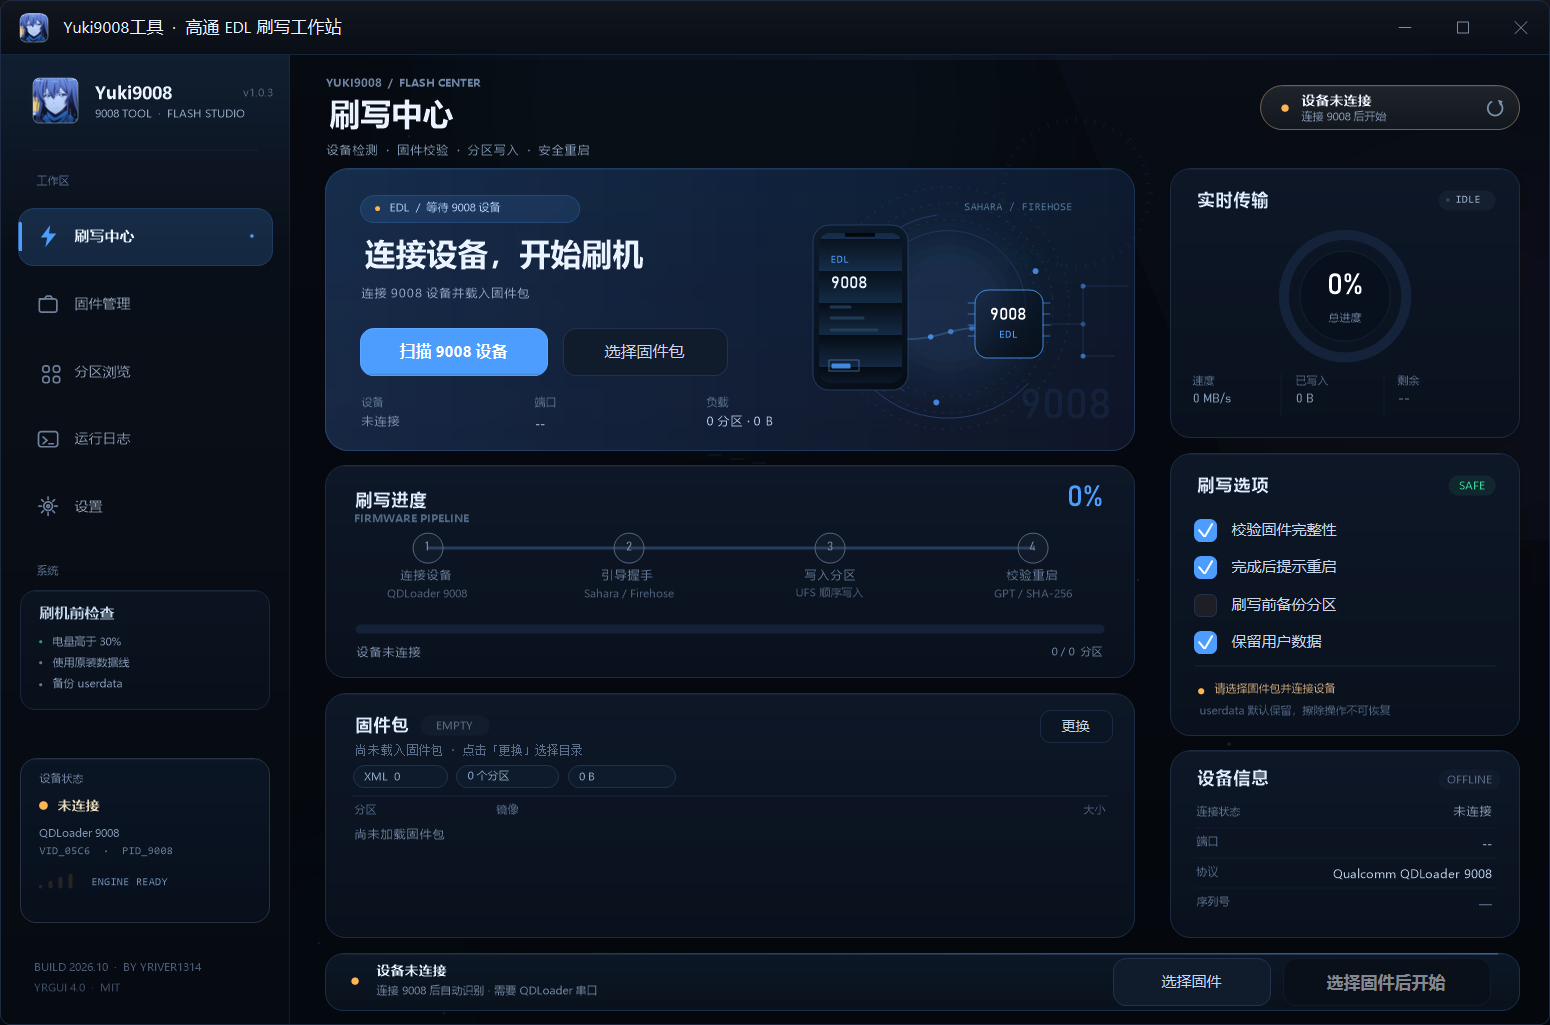
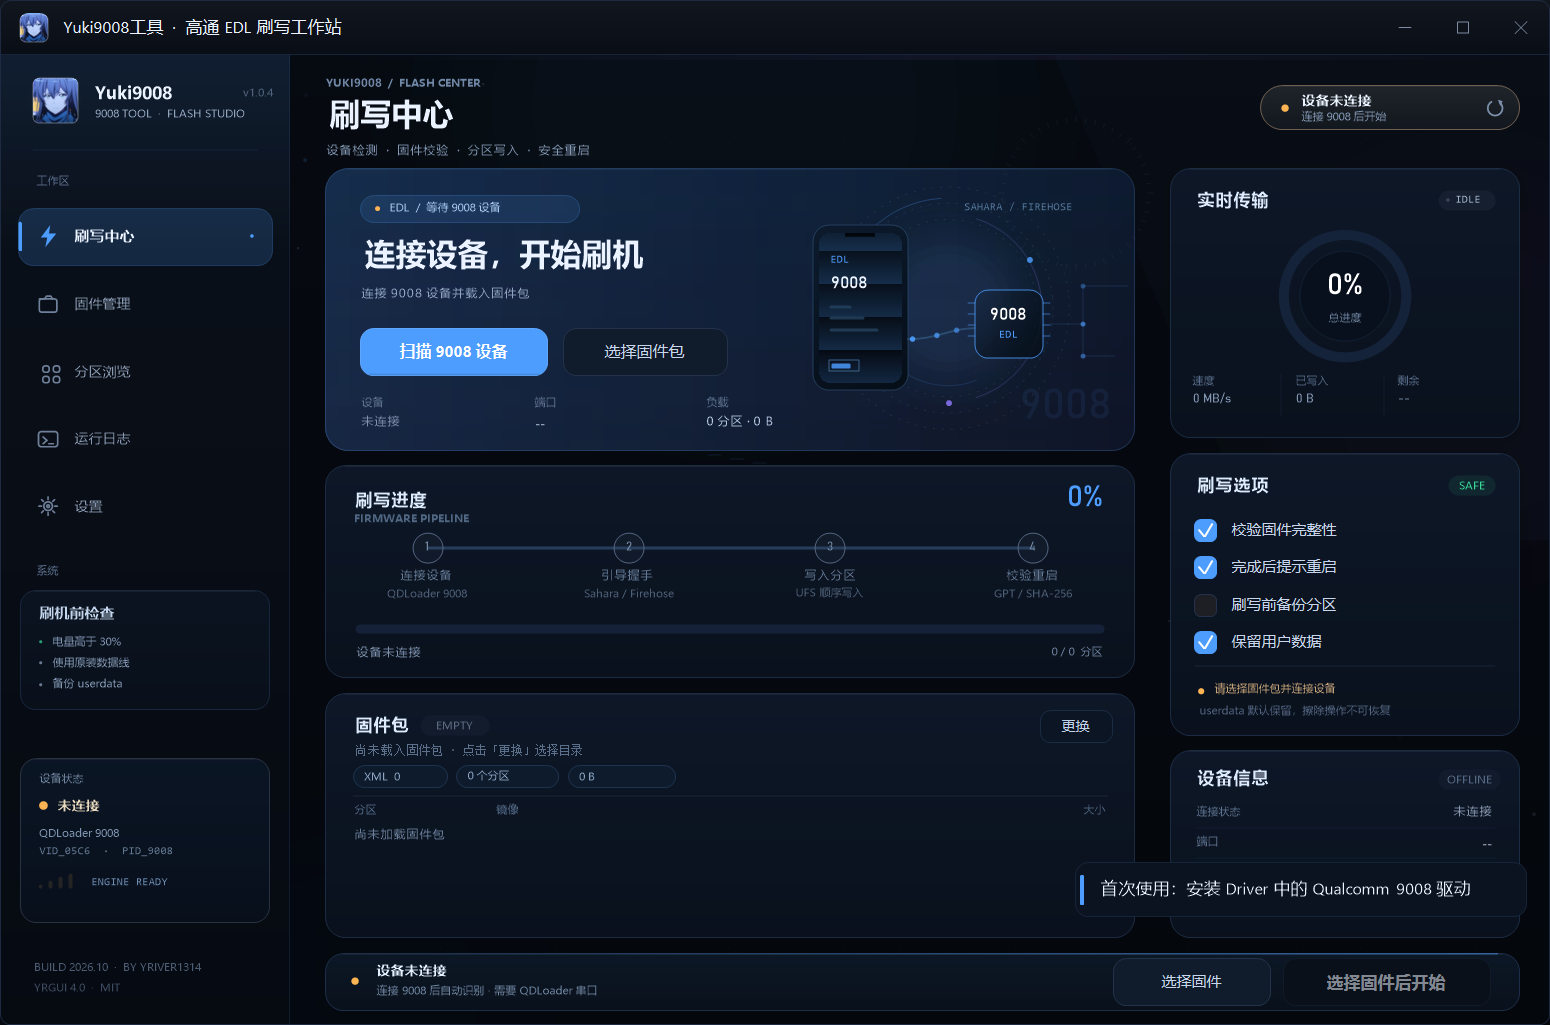
Release 1.0.4: bundle VC++ runtimes, driver setup prompt and 9008 guidance

Changed region(s): [[0.5265, 0.2185, 0.5884, 0.3746], [0.7123, 0.8429, 0.96, 0.9054]]

diff --git a/app_state.cpp b/app_state.cpp
@@ -6,7 +6,7 @@
 // ---------------------------------------------------------------------------
 //  update channel
 // ---------------------------------------------------------------------------
-static constexpr const wchar_t* kAppVersion = L"1.0.3";
+static constexpr const wchar_t* kAppVersion = L"1.0.4";
 static constexpr const wchar_t* kRepoOwner = L"yriver1314";
 static constexpr const wchar_t* kRepoName = L"Yuki9008Tool";
 
@@ -325,6 +325,15 @@ void AppState::Build()
 
 void AppState::BuildControls()
 {
+    wchar_t exePath[MAX_PATH] = {};
+    GetModuleFileNameW(nullptr, exePath, MAX_PATH);
+    std::wstring exeDir = exePath;
+    size_t slash = exeDir.find_last_of(L"\\/");
+    if (slash != std::wstring::npos) {
+        exeDir.resize(slash);
+        m_driverDir = exeDir + L"\\Driver";
+    }
+
     m_heroScan = m_ui.button(L"扫描 9008 设备", [this] { StartScan(); });
     m_heroScan.primary(true).accent((int)m_accent).radius(10).font(12).bold(true);
     m_dash.push_back(m_heroScan);
@@ -463,6 +472,12 @@ void AppState::BuildControls()
     m_setQfil.font(11);
     m_set.push_back(m_setQfil);
 
+    m_setDriver = m_ui.button(L"打开 Driver · 安装 9008 驱动与 VC++ 运行库",
+                              [this] { OpenDriverFolder(); });
+    StyleSecondary(m_setDriver);
+    m_setDriver.font(11);
+    m_set.push_back(m_setDriver);
+
     m_setLogs = m_ui.button(L"打开运行日志", [this] { SetPage(3); });
     StyleGhost(m_setLogs);
     m_set.push_back(m_setLogs);
@@ -566,6 +581,7 @@ void AppState::Layout()
     m_setReboot.rect(l.L + 26, 90 + 270, 330, 28);
     m_setReset.rect(l.L + 26, 90 + 312, 138, 36);
     m_setQfil.rect(l.L + 176, 90 + 312, 150, 36);
+    m_setDriver.rect(l.L + 26, 90 + 354, 424, 32);
     int rightCardX = l.L + 506;
     m_setLogs.rect(rightCardX + 26, 90 + 340, 138, 36);
     m_setUpdate.rect(rightCardX + 176, 90 + 340, 150, 36);
@@ -584,6 +600,7 @@ void AppState::SetPage(int page)
     for (Widget& w : m_log) w.visible(m_page == 3);
     for (Widget& w : m_set) w.visible(m_page == 4);
     m_setQfil.visible(m_page == 4 && !m_engineQfil.empty());
+    m_setDriver.visible(m_page == 4 && !m_driverDir.empty());
     m_pageFade = 1.f;
     if (m_page == 2) RefreshPartitionTable();
     if (m_page == 3) SyncLog();
@@ -600,7 +617,7 @@ void AppState::Begin()
     m_autoStart = std::getenv("YUKI9008_AUTO_START") != nullptr;
     if (const char* fw = std::getenv("YUKI9008_FIRMWARE"))
         LoadFirmwareDir(FromUtf8(fw));
-    Log(L"Yuki9008工具 内核 v1.0.3 已启动", LogLevel::Ok);
+    Log(L"Yuki9008工具 内核 v1.0.4 已启动", LogLevel::Ok);
     Log(L"加载安全策略 · 校验 / 备份 / 防误擦", LogLevel::Info);
     if (m_engineReady)
         Log(L"写入引擎已就绪 · " + m_engineDir, LogLevel::Ok);
@@ -608,6 +625,13 @@ void AppState::Begin()
         Log(L"已找到 QFIL GUI · " + m_engineQfil + L"（命令行 fh_loader 缺失）", LogLevel::Warn);
     else
         Log(L"未检测到 QFIL 写入引擎（fh_loader / QSaharaServer）", LogLevel::Warn);
+
+    std::wstring setupHint = DriverSetupHint();
+    if (!setupHint.empty()) {
+        Log(setupHint + L" · " + m_driverDir, LogLevel::Warn);
+        m_app.toast(setupHint.c_str(), 8000);
+    }
+
     UpdateStartButton();
     SetStatus(L"正在扫描 EDL 总线", L"查找 Qualcomm QDLoader 9008", m_accent);
     StartScan();
@@ -812,6 +836,59 @@ void AppState::LaunchQfil()
     }
     Log(L"已启动 QFIL GUI · " + m_engineQfil, LogLevel::Ok);
     m_app.toast(L"已打开 QFIL · 可手动刷写", 3200);
+}
+
+void AppState::OpenDriverFolder()
+{
+    if (m_driverDir.empty() || GetFileAttributesW(m_driverDir.c_str()) == INVALID_FILE_ATTRIBUTES) {
+        m_app.toast(L"Driver 文件夹不存在", 3200);
+        return;
+    }
+    ShellExecuteW(m_app.hwnd(), L"open", m_driverDir.c_str(), nullptr, nullptr, SW_SHOWNORMAL);
+    Log(L"打开驱动与运行库目录 · " + m_driverDir, LogLevel::Info);
+    m_app.toast(L"请安装 9008 驱动和 VC++ 2010 运行库", 4200);
+}
+
+std::wstring AppState::DriverSetupHint() const
+{
+    if (m_driverDir.empty()) return L"";
+
+    auto fileExists = [](const std::wstring& p) {
+        DWORD a = GetFileAttributesW(p.c_str());
+        return a != INVALID_FILE_ATTRIBUTES && !(a & FILE_ATTRIBUTE_DIRECTORY);
+    };
+
+    wchar_t sys[MAX_PATH] = {};
+    GetSystemDirectoryW(sys, MAX_PATH);
+    std::wstring sysDir = sys;
+
+    std::wstring wowDir;
+    wchar_t wow[MAX_PATH] = {};
+    if (GetSystemWow64DirectoryW(wow, MAX_PATH) > 0)
+        wowDir = wow;
+
+    bool rt64 = fileExists(sysDir + L"\\msvcp100.dll") &&
+                fileExists(sysDir + L"\\msvcr100.dll");
+    bool rt86 = false;
+    if (!wowDir.empty())
+        rt86 = fileExists(wowDir + L"\\msvcp100.dll") &&
+               fileExists(wowDir + L"\\msvcr100.dll");
+    else
+        rt86 = rt64;
+
+    bool drv = fileExists(sysDir + L"\\drivers\\qcusbser.sys") ||
+               fileExists(sysDir + L"\\drivers\\qcusb.sys");
+
+    bool needDriver = !drv;
+    bool needRuntime = !(rt86 && rt64);
+
+    if (needDriver && needRuntime)
+        return L"首次使用：安装 Driver 中的 9008 驱动与 VC++ 2010 运行库";
+    if (needDriver)
+        return L"首次使用：安装 Driver 中的 Qualcomm 9008 驱动";
+    if (needRuntime)
+        return L"首次使用：安装 Driver 中的 VC++ 2010 运行库";
+    return L"";
 }
 
 void AppState::BrowseFirmware()

diff --git a/app_state.h b/app_state.h
@@ -52,7 +52,7 @@ private:
     Widget m_fwBrowse, m_fwTable, m_fwRemove, m_fwRescan;
     Widget m_partSearch, m_partFilter, m_partTable, m_partExport;
     Widget m_logArea, m_logExport, m_logClear, m_logAuto;
-    Widget m_setAnim, m_setVerify, m_setReboot, m_setReset, m_setQfil, m_setLogs, m_setUpdate;
+    Widget m_setAnim, m_setVerify, m_setReboot, m_setReset, m_setQfil, m_setDriver, m_setLogs, m_setUpdate;
 
     FirmwareInfo m_fw;
     DeviceInfo m_dev;
@@ -110,6 +110,7 @@ private:
     std::wstring m_engineFhLoader;
     std::wstring m_engineQfil;
     std::wstring m_engineNote;
+    std::wstring m_driverDir;
     bool m_engineReady = false;
     HANDLE m_proc = nullptr;
     HANDLE m_procRead = nullptr;
@@ -158,6 +159,8 @@ private:
     void FailFlash(const std::wstring& reason);
     void UpdateStartButton();
     void LaunchQfil();
+    void OpenDriverFolder();
+    std::wstring DriverSetupHint() const;
     bool LaunchPhase(int phase);
     void ReadProcessOutput();
     void CloseProcessHandles();

diff --git a/paint_pages.cpp b/paint_pages.cpp
@@ -277,7 +277,7 @@ void AppState::PaintSettingsPage(Gdiplus::Graphics& g, bool bg)
     g.DrawPath(&vedge, &vp);
     Txt(g, L"Yuki9008工具", { ver.x + 16, ver.y + 10, 200, 20 }, m_fonts.bodyBold.get(),
         0xEDF5FF, 255, 0);
-    Txt(g, L"v1.0.3  ·  BUILD 2026.10  ·  BY YRIVER1314", { ver.x + 16, ver.y + 31, 300, 16 },
+    Txt(g, L"v1.0.4  ·  BUILD 2026.10  ·  BY YRIVER1314", { ver.x + 16, ver.y + 31, 300, 16 },
         m_fonts.monoS.get(), 0x8EA6C7, 255, 0);
     Txt(g, L"YRGui 4.0  ·  MIT License", { ver.x + 16, ver.y + 49, 260, 16 },
         m_fonts.tiny.get(), 0x607793, 255, 0);

diff --git a/paint_foreground.cpp b/paint_foreground.cpp
@@ -92,7 +92,7 @@ void AppState::PaintChrome(Gdiplus::Graphics& g)
 
     Txt(g, L"Yuki9008", { 74, 19, 138, 22 }, m_fonts.h2.get(), col::ink, 255, 0);
     Txt(g, L"9008 TOOL  ·  FLASH STUDIO", { 75, 41, 150, 12 }, m_fonts.tiny.get(), 0x91A4BE, 255, 0);
-    Txt(g, L"v1.0.3", { 170, 24, 50, 12 }, m_fonts.tiny.get(), 0x51637C, 255, 2);
+    Txt(g, L"v1.0.4", { 170, 24, 50, 12 }, m_fonts.tiny.get(), 0x51637C, 255, 2);
 
     Hairline(g, 26, 76, 206, 76, 0x16243A, 220);
     Txt(g, L"工作区", { 28, 94, 90, 14 }, m_fonts.tiny.get(), 0x5C718F, 255, 0);
